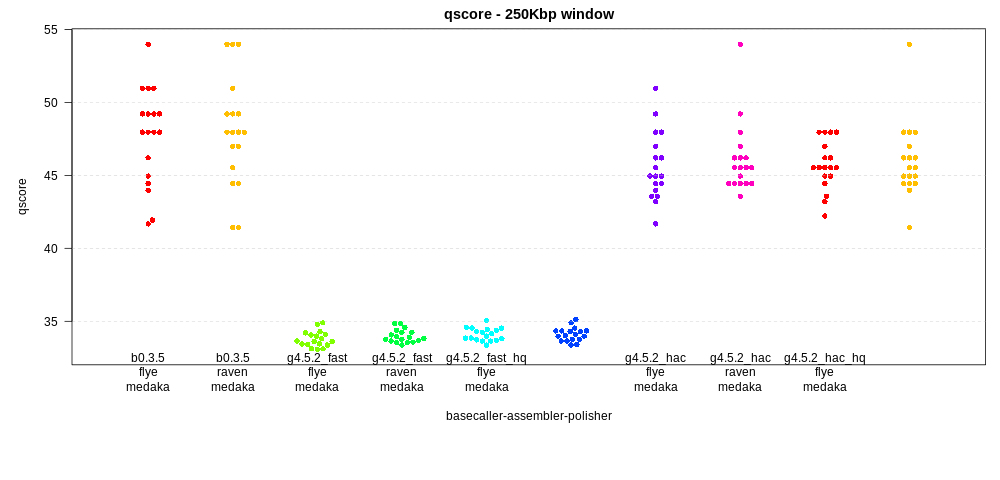
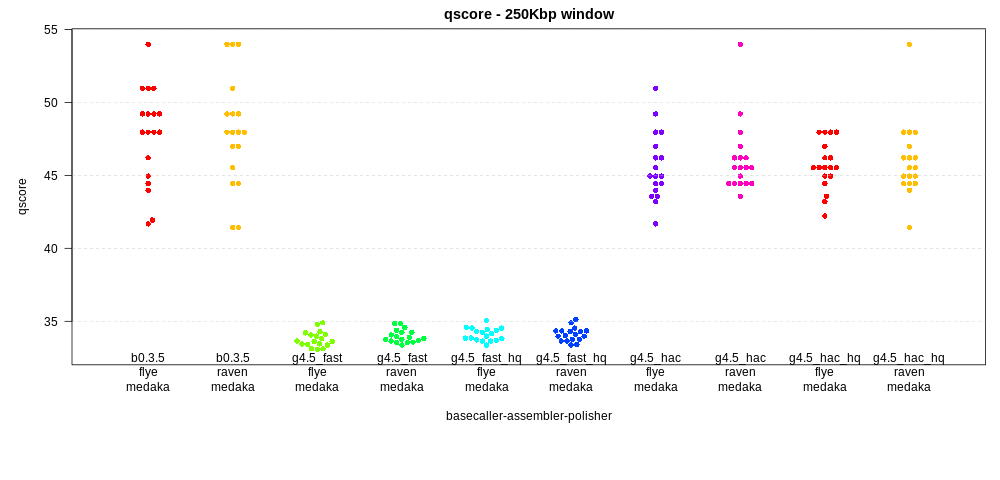
fixed guppy and bonito naming

Changed region(s): [[0.372, 0.7188, 0.682, 0.8125], [0.713, 0.7188, 0.961, 0.8125], [0.279, 0.7188, 0.341, 0.7812]]

diff --git a/README.md b/README.md
@@ -20,7 +20,7 @@ This is plotted as a phred-based q-score
 ### No polishing
 First, the results with no polishing at all ("none"). Each point in the plot 
 below indicates the quality score within a 250 Kbp window. `bonito 0.3.5` is 
-indicated as *b0.3.5*; `guppy 4.5.2` is indicated as *g4.5.2*. There are two 
+indicated as *b0.3.5*; `guppy 4.5.2` is indicated as *g4.5*. There are two 
 models for guppy, *fast* (fast) amd *high accuracy* (hac). In addition, for 
 each set of `guppy` basecalls with `.fastq` scores, there is a matching dataset
 that has been filtered for high quality (hq) reads using `filtlong` as indicated above.
